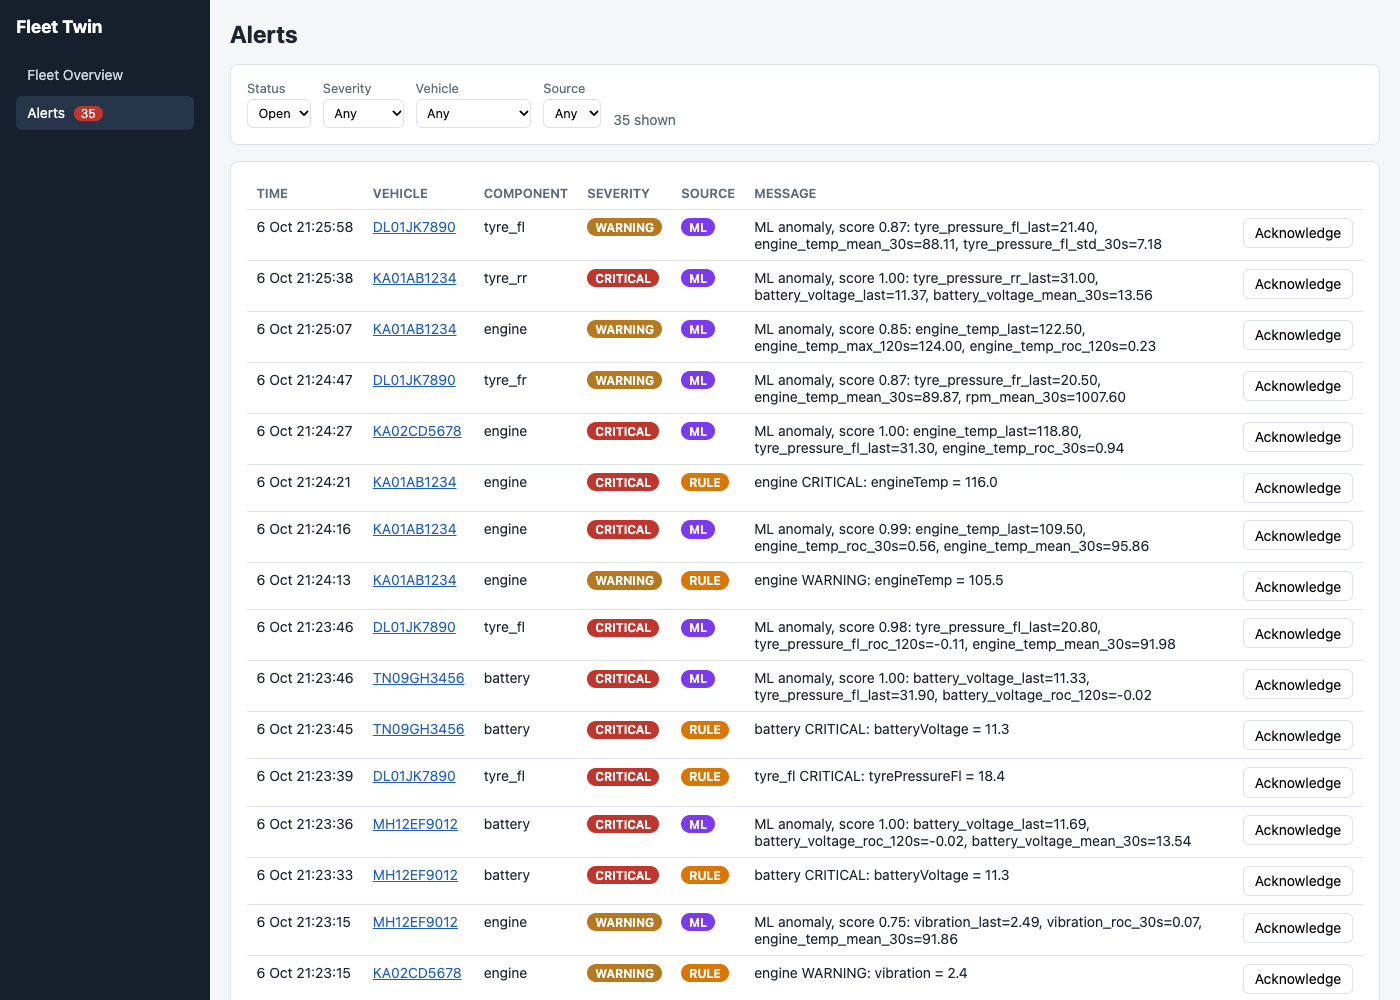
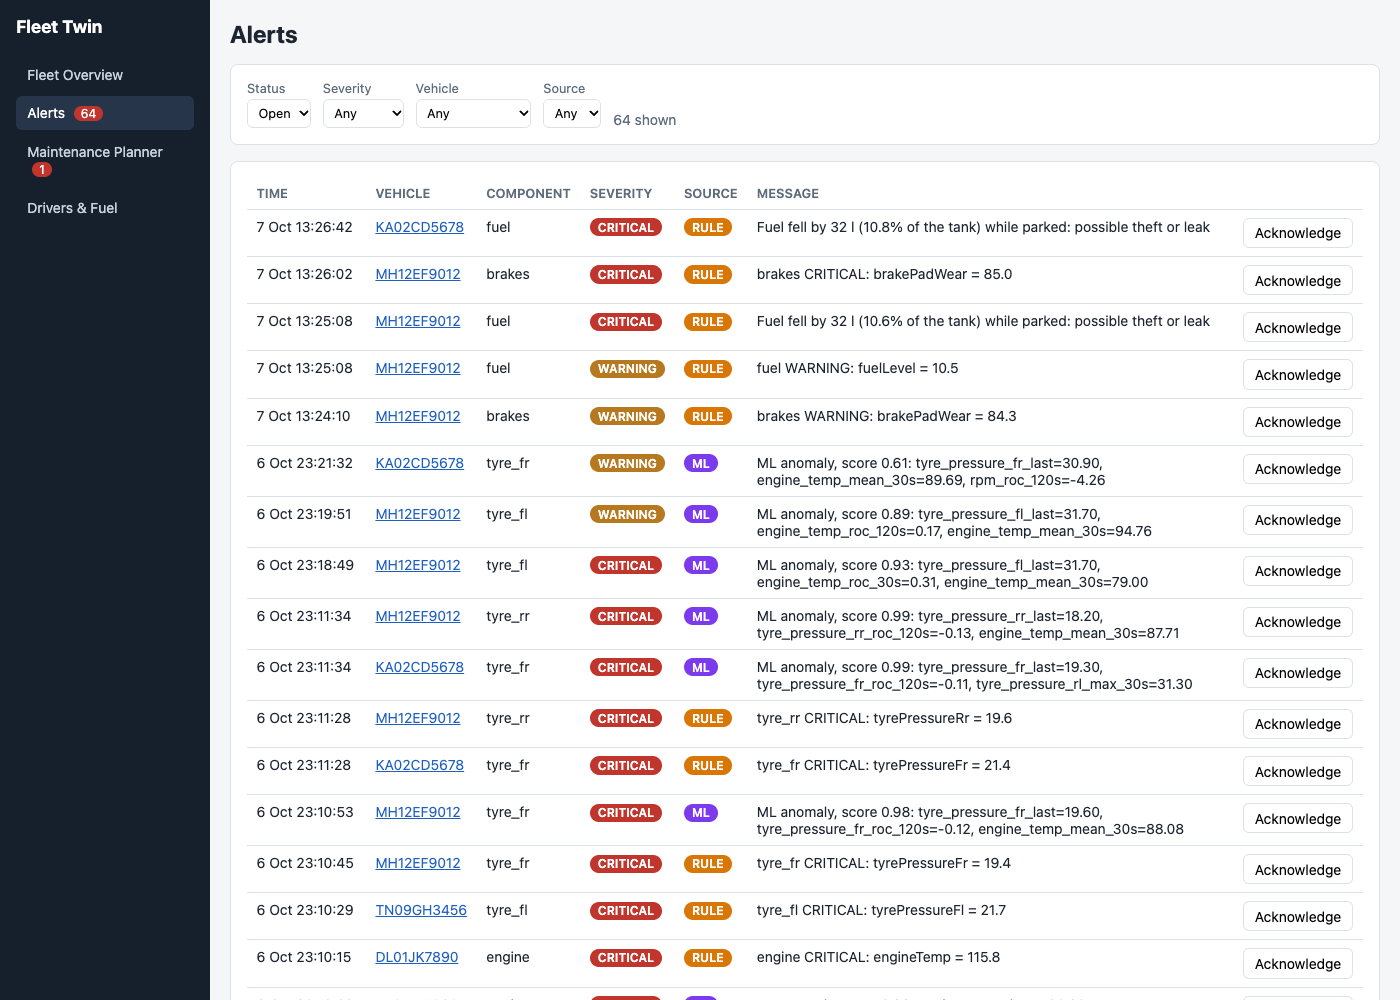
Document Phase 2 and retrain RUL models on fresh 90-day history
- README: Phase 2 features, endpoints, config, fast-forward, RUL
  retraining, new dashboard pages and an updated Mermaid diagram
- docs/architecture.md: Phase 2 data path and design decisions
- docs/model_report.md: RUL results from the latest training run
- Screenshots of all five dashboard pages

Changed region(s): [[0.1843, 0.186, 0.86, 1.0], [0.8907, 0.248, 0.9829, 1.0], [0.0, 0.124, 0.0921, 0.217]]

diff --git a/README.md b/README.md
@@ -2,7 +2,8 @@
 
 A digital-twin based predictive fleet maintenance system. Simulated vehicles publish telemetry over
 MQTT; the backend stores it, keeps a live twin of every vehicle, raises alerts from threshold rules
-and from an anomaly model, and a dashboard shows it all in real time.
+and from an anomaly model, predicts how long each part has left, scores driving and fuel use, and
+turns all of that into maintenance recommendations. A dashboard shows it in real time.
 
 ## Features
 
@@ -14,20 +15,45 @@ and from an anomaly model, and a dashboard shows it all in real time.
 - **Anomaly detection**: an XGBoost model over rolling-window features, trained on simulator data,
   stored in MinIO and served by the ML service with the top contributing features as reasons.
   See [docs/model_report.md](docs/model_report.md).
-- **Dashboard**: fleet map, vehicle twin view with charts and anomaly markers, live alert feed.
+- **Remaining useful life** for brake pads, battery, tyres and engine: days left with a lower and
+  upper bound and a confidence, from per-component models trained on run-to-failure history.
+- **Driver behaviour**: harsh braking, rapid acceleration, speeding, sharp cornering and excessive
+  idling are detected from telemetry, telemetry is split into trips, and each trip and day gets a
+  0–100 driver score from a published formula. See [docs/driver_score.md](docs/driver_score.md).
+- **Fuel analysis**: efficiency per trip and day, fuel lost to idling, and two anomalies: fuel
+  that disappears while parked (`FUEL_DROP`) and trips far below the vehicle's own baseline
+  (`LOW_EFFICIENCY`).
+- **Maintenance recommendations**: configurable rules combine RUL, component status, open alerts,
+  anomaly history and time or distance since the last service. Each recommendation states its
+  evidence in plain English. Completing one records the maintenance and resets the part's wear.
+- **Dashboard**: fleet map, vehicle twin view with charts and anomaly markers, live alert feed,
+  Maintenance Planner, and a Drivers & Fuel page.
 
 ## Architecture
 
 ```mermaid
 flowchart LR
     SIM[Simulator] -- MQTT --> MQ[Mosquitto]
-    MQ -- fleet/+/telemetry --> BE[Spring Boot backend]
-    BE -- telemetry, alerts, maintenance --> DB[(TimescaleDB)]
+    SIM -. "--fast-forward: history, failures, maintenance" .-> DB
+    MQ -- fleet/+/telemetry --> BE
+    BE -- "fleet/{id}/maintenance (part serviced)" --> MQ
+    MQ -- wear reset --> SIM
+
+    subgraph BE[Spring Boot backend]
+        ING[Telemetry ingest] --> TW[Twin + threshold rules + alerts]
+        ING --> DRV[Driving analyzer: events, trips, driver score, fuel]
+        REC[Recommendation engine, every 15 min]
+        MLC[ML client]
+    end
+
+    BE -- telemetry, alerts, trips, driving events, recommendations, maintenance --> DB[(TimescaleDB)]
     BE -- live twins --> RD[(Redis)]
-    BE -- every 10 s: /anomaly, /health-score --> ML[FastAPI ML service]
-    ML -- loads latest model --> S3[(MinIO)]
-    TR[training/train.py] -- exports telemetry --> DB
-    TR -- uploads model --> S3
+    MLC -- every 10 s: /anomaly, /health-score --> ML[FastAPI ML service]
+    MLC -- every 60 s: /rul --> ML
+    ML -- daily wear and usage for /rul --> DB
+    ML -- loads latest anomaly and RUL models --> S3[(MinIO)]
+    TR[training/train.py, train_rul.py] -- reads telemetry and maintenance --> DB
+    TR -- uploads versioned models --> S3
     UI[Angular dashboard] -- REST --> BE
     BE -- STOMP /topic/twins, /topic/alerts --> UI
 ```
@@ -41,7 +67,7 @@ fleet-twin/
   ml-service/   Python 3.11, FastAPI, XGBoost; training scripts in ml-service/training
   simulator/    Python MQTT telemetry simulator
   infra/        docker-compose.yml, mosquitto config, db init scripts
-  docs/         architecture notes, model report
+  docs/         architecture notes, model report, driver score formula
 ```
 
 ## Prerequisites
@@ -115,12 +141,25 @@ mvn spring-boot:run           # Ctrl+C to stop
 | `GET /api/alerts?status=&vehicleId=&severity=&source=&from=&to=` | Newest first. `status` is `open` (default), `acknowledged` or `all` |
 | `POST /api/alerts/{id}/acknowledge` | Acknowledge an alert |
 | `GET/POST /api/maintenance-records`, `GET/PUT/DELETE /api/maintenance-records/{id}` | Maintenance CRUD; `GET` takes `?vehicleId=` |
+| `GET /api/vehicles/{id}/driver-score?period=` | Score, distance, event counts and a per-day breakdown. `period` is e.g. `24h`, `7d`, `30d` (default `7d`) |
+| `GET /api/vehicles/{id}/trips?period=` | Trips, newest first: distance, duration, average and top speed, idling, fuel, events, score |
+| `GET /api/vehicles/{id}/events?period=&type=` | Driving and fuel events, newest first (default `24h`); `type` is e.g. `HARSH_BRAKING`, `FUEL_DROP` |
+| `GET /api/vehicles/{id}/fuel?period=` | km/l, l/100 km, idling litres, per-day breakdown, baseline and fuel anomalies |
+| `GET /api/fleet/fuel-summary?period=` | One row per vehicle, fleet totals, the idling cost sentence and the score/efficiency correlation |
+| `GET /api/recommendations?status=&priority=&vehicleId=` | Most urgent first, then by recommended-by date |
+| `PATCH /api/recommendations/{id}` | Body `{"status": "SCHEDULED" \| "DONE" \| "DISMISSED" \| "OPEN"}`. `DONE` creates a maintenance record, resets the part's wear in the twin and tells the simulator |
+| `POST /api/recommendations/recompute` | Run the recommendation rules now |
+| `POST /api/admin/reanalyse?from=&to=` | Rebuild trips and events from stored telemetry (needed after a fast-forward) |
 | WebSocket `ws://localhost:8080/ws` (STOMP) | `/topic/twins` gets every twin update, `/topic/alerts` every new or acknowledged alert |
 
 Everything tunable is in `backend/src/main/resources/application.yml` under `fleet`:
 component threshold rules (`fleet.rules`), the offline timeout and moving speed (`fleet.twin`),
-and the ML service URL, scoring interval, window and timeout (`fleet.ml`). If the ML service is
-down the backend logs one warning per cycle and carries on with rule-based statuses.
+the ML service URL, scoring and RUL intervals, window and timeout (`fleet.ml`), driving event
+thresholds and driver score weights (`fleet.driving`), fuel anomaly thresholds (`fleet.fuel`),
+and the recommendation schedule, priority rules, due dates and per-component actions
+(`fleet.recommendations`). If the ML service is down the backend logs one warning per cycle and
+carries on: statuses, alerts, driver scores, fuel analysis and recommendations need only the
+database (recommendations then lose their RUL evidence and use the rest).
 
 ### 3. ML service
 
@@ -129,17 +168,17 @@ cd ml-service
 .venv/bin/uvicorn app.main:app --port 8000     # Ctrl+C to stop
 ```
 
-Docs at http://localhost:8000/docs. It loads the newest model from MinIO at startup; until one has
-been trained (see [Retraining the model](#retraining-the-model)) `/anomaly` returns 503 and the
-backend falls back to health scores from component statuses alone.
+Docs at http://localhost:8000/docs. It loads the newest models from MinIO at startup; until they
+have been trained (see [Retraining the models](#retraining-the-models)) `/anomaly` and `/rul`
+return 503 and the backend falls back to health scores from component statuses alone.
 
 | Endpoint | Purpose |
 |---|---|
-| `GET /health` | Status and the loaded model version |
+| `GET /health` | Status and the loaded anomaly and RUL model versions |
 | `POST /anomaly` | Takes one vehicle's recent readings (ideally the last 2 minutes), scores the newest. Returns `{ vehicle_id, is_anomaly, score, reasons[], model_version }` |
 | `POST /health-score` | 100 minus 10 per WARNING component, 25 per CRITICAL component and 30 × anomaly score, floored at 0. Returns the score and the deductions |
-| `POST /model/reload` | Load the newest model from MinIO without restarting |
-| `POST /rul` | Placeholder until Phase 2 |
+| `POST /model/reload` | Load the newest models from MinIO without restarting |
+| `POST /rul` | Takes `{ vehicle_id, component }` (`brakes`, `battery`, `tyres` or `engine`), reads that vehicle's history from TimescaleDB. Returns `{ vehicle_id, component, rul_days, lower_bound, upper_bound, confidence, model_version }` |
 
 ```bash
 curl localhost:8000/health
@@ -147,10 +186,13 @@ curl -X POST localhost:8000/anomaly -H 'Content-Type: application/json' \
   -d '{"vehicle_id":1,"readings":[{"ts":"2026-10-06T10:00:00Z","engine_temp":118,"vibration":0.4}]}'
 curl -X POST localhost:8000/health-score -H 'Content-Type: application/json' \
   -d '{"vehicle_id":1,"components":{"engine":"CRITICAL","battery":"OK"},"anomaly_score":0.9}'
+curl -X POST localhost:8000/rul -H 'Content-Type: application/json' \
+  -d '{"vehicle_id":3,"component":"brakes"}'
 ```
 
 The health score weights are env vars (`HEALTH_WARNING_PENALTY`, `HEALTH_CRITICAL_PENALTY`,
-`HEALTH_ANOMALY_WEIGHT`), as are `MINIO_ENDPOINT` and `MODEL_BUCKET`. To run it as a container, give
+`HEALTH_ANOMALY_WEIGHT`), as are `MINIO_ENDPOINT`, `MODEL_BUCKET`, `RUL_HISTORY_DAYS` and
+`RUL_CACHE_SECONDS`. `/rul` needs the `POSTGRES_*` settings from `.env`. To run it as a container, give
 it the MinIO settings: `docker build -t fleet-twin-ml ml-service && docker run --rm -p 8000:8000
 --env-file .env -e MINIO_ENDPOINT=host.docker.internal:9000 fleet-twin-ml`.
 
@@ -167,6 +209,25 @@ Defaults come from `SIM_VEHICLES`, `SIM_INTERVAL` and `SIM_FAULT_RATE` in `.env`
 Only vehicle ids that exist in the `vehicles` table are stored, so keep `--vehicles` at 5 or
 below until more vehicles are added.
 
+Each vehicle has a driver profile (1 calm; 2 and 4 normal; 3 and 5 aggressive) that changes
+braking, acceleration, speeding, idling and fuel use, and four parts that wear at their own rate:
+brake pads, battery, tyres and engine. Short injected faults (overheating, vibration, low tyre
+pressure, low battery, fuel theft) still occur at `--fault-rate`.
+
+Fast-forward writes history straight to TimescaleDB instead of publishing live, including part
+failures and the maintenance records that reset wear:
+
+```bash
+.venv/bin/python simulator.py --fast-forward 90 --replace --seed 42   # 90 days in a few seconds
+curl -X POST localhost:8080/api/admin/reanalyse                       # build trips, events and scores from it
+```
+
+`--replace` first deletes existing telemetry, trips, events and maintenance records inside the
+period; without it the run stops if any exist. The wear each vehicle ends on is saved to
+`simulator/state.json` and live mode continues from it (`--fresh` ignores it). In live mode the
+simulator also listens on `fleet/{id}/maintenance`, so completing a recommendation in the
+dashboard resets that part in the simulator too.
+
 Check that rows are arriving:
 
 ```bash
@@ -182,16 +243,24 @@ npm start                     # http://localhost:4200, Ctrl+C to stop
 
 - **Fleet Overview**: map with one marker per vehicle (arrow = heading; green / amber / red =
   health; faded = offline), summary cards, and a vehicle list. Click a vehicle to open it.
-- **Vehicle detail**: health gauge, component tiles, charts with a 15 min / 1 h / 24 h selector and
+  Cards for urgent recommendations and the part with the lowest remaining life in the fleet.
+- **Vehicle detail**: health gauge, component tiles, remaining-life bars with their likely range,
+  that vehicle's recommendations, a driver score card with an event timeline, daily score and
+  fuel efficiency charts, a trips table, telemetry charts with a 15 min / 1 h / 24 h selector and
   a vertical marker for each alert (solid purple = ML anomaly, dashed orange = rule alert),
   and the maintenance history with a form to add records.
 - **Alerts**: live feed with filters and an acknowledge button.
+- **Maintenance Planner**: every recommendation by priority and date, filters for status,
+  priority and vehicle, and Schedule / Complete / Dismiss buttons.
+- **Drivers & Fuel**: driver score ranking, fuel efficiency comparison and idling cost.
 
 The sidebar shows "Live" while the WebSocket is connected. Backend and WebSocket URLs, the health
-colour bands, the chart refresh interval and the map tiles are in
+colour bands, the remaining-life colour bands, the refresh intervals and the map tiles are in
 `frontend/src/environments/environment.ts`.
 
-## Retraining the model
+## Retraining the models
+
+### Anomaly model
 
 Run the simulator for at least 45 minutes first (the export step tells you if there is too little
 data), then from `ml-service/`:
@@ -207,11 +276,35 @@ split and uploads the one with the higher F1 to MinIO as `models/anomaly/<UTC ti
 run is a new version and the service always loads the newest. `--no-upload` trains and writes the
 report only.
 
+### Remaining useful life models
+
+These need run-to-failure history, which the fast-forward mode provides (see
+[Simulator](#4-simulator)). Then from `ml-service/`:
+
+```bash
+.venv/bin/python -m training.train_rul       # reads TimescaleDB, rewrites the RUL section of docs/model_report.md, uploads
+curl -X POST localhost:8000/model/reload
+```
+
+For each of the four components it compares linear extrapolation of the wear reading with XGBoost
+quantile regression, using leave-one-vehicle-out cross-validation, and uploads the one with the
+lower MAE as `models/rul/<component>/<UTC timestamp>/`. The latest run (90 days, 5 vehicles):
+
+| Component | Selected | MAE (days) | RMSE | Within ±7 days |
+|---|---|---|---|---|
+| brakes | XGBoost | 2.10 | 3.03 | 94% |
+| battery | XGBoost | 1.81 | 2.79 | 95% |
+| tyres | XGBoost | 3.41 | 5.20 | 83% |
+| engine | XGBoost | 2.30 | 3.25 | 94% |
+
+The baseline numbers, the interval method and the caveats are in
+[docs/model_report.md](docs/model_report.md).
+
 ## Tests
 
 ```bash
-(cd backend && mvn test)                                   # payload parsing, threshold rules, alert de-duplication
-(cd ml-service && .venv/bin/python -m pytest)              # feature pipeline, /anomaly and /health-score
+(cd backend && mvn test)                                   # payload parsing, threshold rules, alert de-duplication, driving and fuel analysis, recommendation rules
+(cd ml-service && .venv/bin/python -m pytest)              # feature pipeline, /anomaly, /health-score, RUL features and /rul
 (cd simulator && .venv/bin/python simulator.py --self-check)
 ```
 
@@ -233,7 +326,7 @@ report only.
 - **Backend logs `Not authorized to connect` (MQTT)**: `MQTT_USERNAME`/`MQTT_PASSWORD` changed
   after Mosquitto started. `docker compose up -d --force-recreate mosquitto`.
 - **Flyway `checksum mismatch`**: an applied migration file was edited. Add a new `V4__...sql`
-  instead, or reset the dev database with `docker compose down -v`.
+  instead (use the next free version number), or reset the dev database with `docker compose down -v`.
 - **Simulator runs but the row count doesn't grow**: check the backend is running and look for
   `Dropped telemetry` in its log (unknown vehicle id or malformed JSON).
 - **Frontend shows "Cannot reach the backend"**: the backend is down, or the page is served from an
@@ -241,7 +334,11 @@ report only.
 - **`XGBoost Library (libxgboost.dylib) could not be loaded`** (macOS): `brew install libomp`.
 - **Vehicles have no health score / backend logs `ML service unavailable`**: the ML service isn't
   running on port 8000. Rule-based statuses and alerts keep working without it.
-- **Backend logs `ML service has no anomaly model loaded`**: train one (see Retraining the model).
+- **Backend logs `ML service has no anomaly model loaded`**: train one (see Retraining the models).
+- **No remaining-life bars on a vehicle**: the ML service is down or has no RUL models (`curl
+  localhost:8000/health` lists them). Fast-forward history and run `training.train_rul`.
+- **Driver scores, trips or fuel figures are empty after a fast-forward**: run
+  `curl -X POST localhost:8080/api/admin/reanalyse`.
 - **MinIO image**: MinIO no longer publishes official images to Docker Hub or Quay, so compose
   uses the Chainguard build pinned by digest. To upgrade, pull `cgr.dev/chainguard/minio:latest`
   and replace the digest in `infra/docker-compose.yml`.

diff --git a/docs/architecture.md b/docs/architecture.md
@@ -11,7 +11,21 @@ simulator ──MQTT──▶ Mosquitto ──fleet/+/telemetry──▶ backend
                                                         └─ every 10 s per online vehicle: last 2 min of telemetry
                                                            ──▶ ml-service /anomaly, /health-score ──▶ twin, ML alerts
 
-ml-service ◀── newest model ── MinIO ◀── training/train.py ◀── training/export_data.py ◀── TimescaleDB
+                                                        ├─ per message: driving analyzer ──▶ driving_events, trips
+                                                        │  (driver score and fuel use are computed from these in SQL)
+                                                        │
+                                                        ├─ every 60 s: ml-service /rul per component ──▶ twin
+                                                        │  every 60 s: driver score and km/l (SQL) ──▶ twin
+                                                        │
+                                                        └─ every 15 min: recommendation rules over RUL, statuses,
+                                                           alerts, anomaly history, last service
+                                                           ──▶ maintenance_recommendations, open count on twin
+
+recommendation marked DONE ──▶ maintenance_record + wear reset in twin ──MQTT fleet/{id}/maintenance──▶ simulator
+simulator --fast-forward ──▶ TimescaleDB directly (telemetry + maintenance_records), then POST /api/admin/reanalyse
+
+ml-service ◀── newest models ── MinIO ◀── training/train.py, train_rul.py ◀── TimescaleDB
+ml-service /rul ── reads the vehicle's daily wear and usage ── TimescaleDB
 frontend ── REST (initial load, history) + STOMP (/topic/twins, /topic/alerts) ── backend
 ```
 
@@ -46,14 +60,31 @@ frontend ── REST (initial load, history) + STOMP (/topic/twins, /topic/alert
   the features the model sees in production are computed exactly as in training.
 - **Model versions are UTC timestamps** under `models/anomaly/` in MinIO; the newest wins. Nothing
   is ever overwritten, so rolling back means deleting the newest version and reloading.
+- **Driving events, trips and fuel figures are derived data.** They are computed from telemetry by
+  one analyzer, live and in `POST /api/admin/reanalyse`, so they can always be rebuilt. Thresholds
+  and score weights are config; the formula is in [driver_score.md](driver_score.md).
+- **Fuel that vanishes while parked is not counted as trip fuel**, so a theft or leak shows up as a
+  `FUEL_DROP` event and does not also drag down that vehicle's efficiency.
+- **`/rul` reads history itself.** RUL features cover the part's whole time in service, far more
+  than the backend could reasonably send, so the ML service queries TimescaleDB (cached briefly).
+- **RUL bounds are conformalised quantiles**: XGBoost's 10% and 90% quantiles, widened by a
+  per-component margin so that 80% of held-out values fall inside.
+- **Recommendations are rules, not a model.** `RecommendationEngine` is a pure function of its
+  inputs; every rule that fires adds a sentence to the reason and the highest priority wins. A part
+  is recommended for replacement only when its wear prediction fired, otherwise for inspection.
+  There is at most one active recommendation per vehicle and component, updated in place.
+- **Driver score, fuel efficiency and recommendations do not need the ML service**; with it down,
+  recommendations simply lack RUL evidence.
 - **Credentials live only in the root `.env`**. Compose, the backend, the ML service and the
   simulator all read it. The Mosquitto password file is generated from it at container start.
 - **Security permits everything** for now; CORS and the WebSocket allow only `http://localhost:4200`.
 
 ## Not built yet
 
-- Remaining useful life (`/rul` is a placeholder) and the `components` table (unused).
-- Simulator faults for brakes and fuel; those tiles only change through gradual wear and fuel burn.
+- The `components` table is still unused.
+- Named drivers: scores are per vehicle, which assumes one driver per vehicle.
+- Real speed limits and road data: speeding uses one fleet-wide limit, cornering comes from
+  heading change between readings.
 - Authentication and per-vehicle MQTT ACLs.
 - TimescaleDB compression and retention policies.
 - Running more than one backend instance (see the twin locking note above).

diff --git a/docs/model_report.md b/docs/model_report.md
@@ -64,7 +64,7 @@ Recall by fault type: low_battery 1.00, low_tyre_pressure 1.00, overheating 0.92
 <!-- rul:start -->
 # Remaining useful life models
 
-Generated 2026-10-06 17:38 UTC by `ml-service/training/train_rul.py`. Model version `20261006T173754Z`.
+Generated 2026-10-07 07:53 UTC by `ml-service/training/train_rul.py`. Model version `20261007T075303Z`.
 
 ## Data
 
@@ -72,10 +72,10 @@ Run-to-failure lifecycles from fast-forwarded simulator history: one row per veh
 
 | Component | Lifecycles | Vehicles | Daily rows | Mean life (days) |
 |---|---|---|---|---|
-| brakes | 19 | 5 | 365 | 19 |
-| battery | 11 | 5 | 294 | 26 |
-| tyres | 12 | 5 | 348 | 29 |
-| engine | 11 | 5 | 366 | 33 |
+| brakes | 19 | 5 | 370 | 19 |
+| battery | 11 | 5 | 299 | 27 |
+| tyres | 12 | 5 | 351 | 29 |
+| engine | 11 | 5 | 370 | 33 |
 
 Features (11): `used`, `rate_3d`, `rate_7d`, `rate_life`, `days_in_service`, `km_in_service`, `hours_in_service`, `harsh_brakes_in_service`, `km_per_day_7d`, `hours_per_day_7d`, `aggressiveness_7d`.
 
@@ -85,20 +85,20 @@ Leave-one-vehicle-out cross-validation: each vehicle's lifecycles are predicted 
 
 | Component | Model | MAE | RMSE | Within ±7 days | Raw interval coverage |
 |---|---|---|---|---|---|
-| brakes | Linear extrapolation | 2.29 | 3.48 | 94% | – |
-| brakes | XGBoost quantile regression **(selected)** | 1.99 | 2.86 | 96% | 47% |
-| battery | Linear extrapolation | 4.33 | 7.44 | 79% | – |
-| battery | XGBoost quantile regression **(selected)** | 1.77 | 2.72 | 95% | 49% |
-| tyres | Linear extrapolation **(selected)** | 3.14 | 5.61 | 90% | – |
-| tyres | XGBoost quantile regression | 3.29 | 4.99 | 84% | 45% |
-| engine | Linear extrapolation | 4.16 | 7.03 | 81% | – |
-| engine | XGBoost quantile regression **(selected)** | 2.41 | 3.40 | 93% | 58% |
+| brakes | Linear extrapolation | 2.75 | 4.52 | 91% | – |
+| brakes | XGBoost quantile regression **(selected)** | 2.10 | 3.03 | 94% | 50% |
+| battery | Linear extrapolation | 5.34 | 9.19 | 73% | – |
+| battery | XGBoost quantile regression **(selected)** | 1.81 | 2.79 | 95% | 44% |
+| tyres | Linear extrapolation | 3.52 | 6.54 | 88% | – |
+| tyres | XGBoost quantile regression **(selected)** | 3.41 | 5.20 | 83% | 42% |
+| engine | Linear extrapolation | 4.62 | 7.87 | 78% | – |
+| engine | XGBoost quantile regression **(selected)** | 2.30 | 3.25 | 94% | 55% |
 
-The model with the lower MAE is selected per component and refitted on all vehicles. Uploaded to MinIO as `models/rul/<component>/20261006T173754Z/`.
+The model with the lower MAE is selected per component and refitted on all vehicles. Uploaded to MinIO as `models/rul/<component>/20261007T075303Z/`.
 
 ## Prediction intervals and confidence
 
-- XGBoost: three quantile models (10%, 50%, 90%); the median is `rul_days`. The raw outer quantiles are too narrow on vehicles the model has not seen (see the table), so both bounds are widened by a fixed number of days chosen so that 80% of held-out true values fall inside (conformalised quantile regression): brakes ±1.7 d, battery ±0.9 d, engine ±1.7 d.
+- XGBoost: three quantile models (10%, 50%, 90%); the median is `rul_days`. The raw outer quantiles are too narrow on vehicles the model has not seen (see the table), so both bounds are widened by a fixed number of days chosen so that 80% of held-out true values fall inside (conformalised quantile regression): brakes ±2.0 d, battery ±0.9 d, tyres ±3.3 d, engine ±1.7 d.
 - Linear baseline: the bounds are the 10th and 90th percentile of its error on held-out vehicles.
 - `confidence` = 1 − (upper − lower) / (2 × max(rul_days, 7)), clamped to 0–1: narrow intervals relative to the prediction score high.
 
